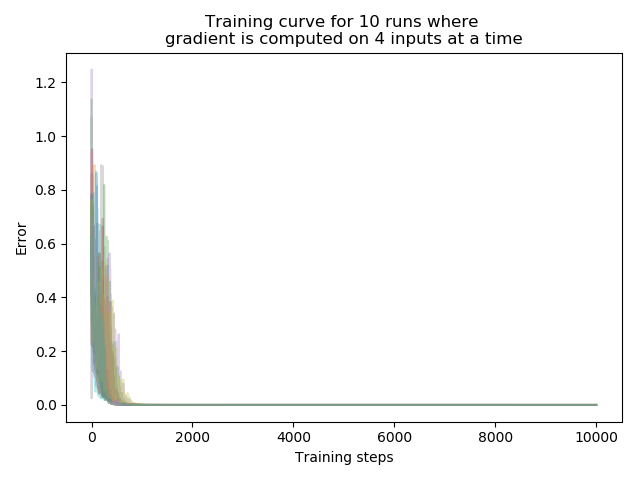
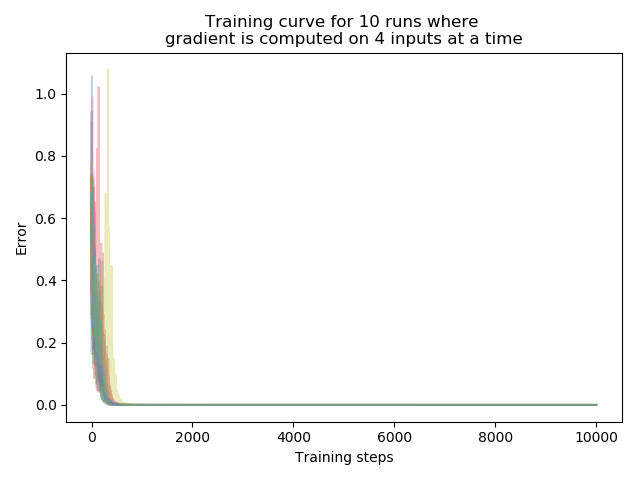
model + backprop cleanup

diff --git a/neural_nets/models.py b/neural_nets/models.py
@@ -17,27 +17,20 @@ class FNN:
     def __init__(
         self,
         units_per_layer,
-        learning_rate=0.01,
         activation="sigmoid",
-        cost="MSE",
-        d_cost=None,
     ):
         """ Create FNN based on specifications
 
         units_per_layer: (list, len>=2) Number of neurons in each layer including input, hidden and output
-        learning_rate: (float) learning_rate to update the weights and biases of the networks
         activation: (str or list of strs ,len=len(units_per_layer)) Activation for each layer, choose from ['sigmoid', 'tanh', 'relu'], default = sigmoid
-        cost: (str or lambda) Choose the cost function to use, currently only 'MSE'. Alternatively provide lambda that takes two args, desired_outputs and actual_outputs in that order
-        d_cost: (lambda) If cost is a lambda, provide another lambda that also takes same two args to estimate the derivative of cost function with respect to output
 
         Note: weights are uniform randomly initialized in [-1/sqrt(d), 1/sqrt(d)] where d is the number of inputs a neuron receives
         """
         assert (
             isinstance(units_per_layer, list) and len(units_per_layer) >= 2
         ), "units_per_layer should be a list of len greater than 2 i.e. minimum of 1 input and 1 output layer"
-        self.num_layers = len(units_per_layer)
         self.units_per_layer = units_per_layer
-        self.learning_rate = learning_rate
+        self.num_layers = len(units_per_layer)
 
         # lambdas for supported activation functions
         self.activation_funcs = {
@@ -53,16 +46,6 @@ class FNN:
         }
         # setting activation for each layer
         self._init_activations(activation)
-
-        # lambdas for cost functions - lambda takes desired outputs d, and outputs o
-        self.cost_funcs = {
-            "MSE": lambda d, o: np.mean(0.5 * (np.asarray(d) - np.asarray(o)) ** 2, 0)
-        }
-
-        # lambdas for derivatives of cost functions
-        self.d_cost_funcs = {"MSE": lambda d, o: -(d - o)}
-        # set cost function
-        self._init_cost(cost, d_cost)
 
         # assigning intial random weights and biases based on layer size
         self.weights = []
@@ -108,33 +91,6 @@ class FNN:
                 validate_activation_str(act)
                 self.activation.append(self.activation_funcs[act])
                 self.d_activation.append(self.d_activation_funcs[act])
-
-    def _init_cost(self, cost, d_cost):
-        """ Internal function to set cost and derivative of cost for the network """
-        # check implementation for cost already exists
-        if cost not in self.cost_funcs.keys():
-            # check if a valid cost and d_cost has been provided
-            throw_away_lambda = lambda: 0
-            if (
-                isinstance(cost, type(throw_away_lambda))
-                and cost.__name__ == throw_away_lambda.__name__
-            ) and (
-                isinstance(d_cost, type(throw_away_lambda))
-                and d_cost.__name__ == throw_away_lambda.__name__
-            ):
-                self.cost = cost
-                self.d_cost = d_cost
-            else:
-                # no valid cost function has been defined
-                raise ValueError(
-                    "Choose cost function from {} or provide lambdas for cost and d_cost of __init__".format(
-                        self.cost_funcs.keys()
-                    )
-                )
-        else:
-            # implementation exists for provided cost function
-            self.cost = self.cost_funcs[cost]
-            self.d_cost = self.d_cost_funcs[cost]
 
     def forward(self, inputs):
         """ Forward propogate the given inputs through the network

diff --git a/neural_nets/backprop.py b/neural_nets/backprop.py
@@ -13,24 +13,64 @@ class BackPropNet(FNN):
     def __init__(
         self,
         units_per_layer,
-        learning_rate=0.01,
         activation="sigmoid",
+        learning_rate=0.01,
         cost="MSE",
         d_cost=None,
     ):
         """ Create FNN for training with backprop based on specifications
 
         units_per_layer: (list, len>=2) Number of neurons in each layer including input, hidden and output
-        learning_rate: (float) learning_rate to update the weights and biases of the networks
         activation: (str or list of strs ,len=len(units_per_layer)) Activation for each layer, choose from ['sigmoid', 'tanh', 'relu'], default = sigmoid
+        learning_rate: (float) learning_rate to update the weights and biases of the networks
         cost: (str or lambda) Choose the cost function to use, currently only 'MSE'. Alternatively provide lambda that takes two args, desired_outputs and actual_outputs in that order
         d_cost: (lambda) If cost is a lambda, provide another lambda that also takes same two args to estimate the derivative of cost function with respect to output
 
         Note: weights are uniform randomly initialized in [-1/sqrt(d), 1/sqrt(d)] where d is the number of inputs a neuron receives
         """
         super(BackPropNet, self).__init__(
-            units_per_layer, learning_rate, activation, cost, d_cost
+            units_per_layer, activation,
         )
+        self.learning_rate = learning_rate
+
+        # lambdas for cost functions - lambda takes desired outputs d, and outputs o
+        self.cost_funcs = {
+            "MSE": lambda d, o: np.mean(0.5 * (np.asarray(d) - np.asarray(o)) ** 2, 0)
+        }
+
+        # lambdas for derivatives of cost functions
+        self.d_cost_funcs = {"MSE": lambda d, o: -(d - o)}
+
+        # set cost function
+        self._init_cost(cost, d_cost)
+
+
+    def _init_cost(self, cost, d_cost):
+        """ Internal function to set cost and derivative of cost for the network """
+        # check implementation for cost already exists
+        if cost not in self.cost_funcs.keys():
+            # check if a valid cost and d_cost has been provided
+            throw_away_lambda = lambda: 0
+            if (
+                isinstance(cost, type(throw_away_lambda))
+                and cost.__name__ == throw_away_lambda.__name__
+            ) and (
+                isinstance(d_cost, type(throw_away_lambda))
+                and d_cost.__name__ == throw_away_lambda.__name__
+            ):
+                self.cost = cost
+                self.d_cost = d_cost
+            else:
+                # no valid cost function has been defined
+                raise ValueError(
+                    "Choose cost function from {} or provide lambdas for cost and d_cost of __init__".format(
+                        self.cost_funcs.keys()
+                    )
+                )
+        else:
+            # implementation exists for provided cost function
+            self.cost = self.cost_funcs[cost]
+            self.d_cost = self.d_cost_funcs[cost]
 
     def backward(self, inputs, desired_outputs, outputs):
         """ Backward propagation of error through the network
@@ -132,7 +172,7 @@ if __name__ == "__main__":
         plt.figure()
         # 10 separate runs
         for _ in range(10):
-            nn = BackPropNet([3, 3, 2], activation="tanh")
+            nn = BackPropNet([3, 5, 2], activation="tanh")
             errs = []
             for t in range(10000):
                 train_inds = np.random.randint(
